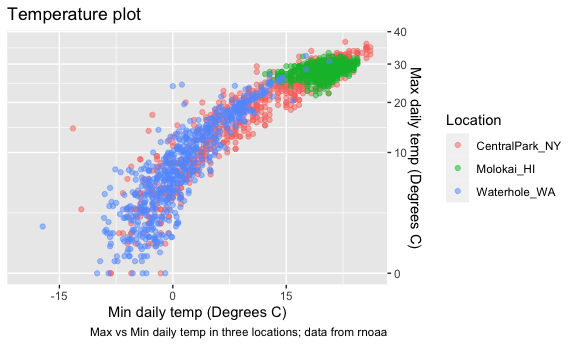
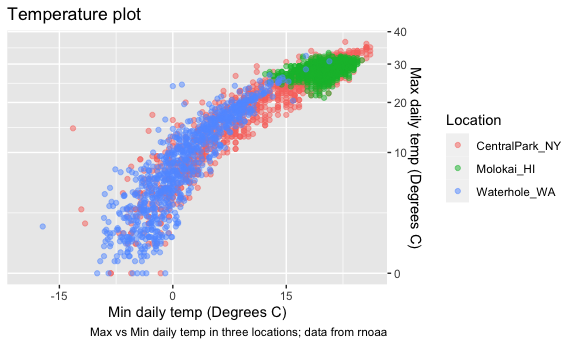
viz part2 finished

diff --git a/viz_part2.md b/viz_part2.md
@@ -19,11 +19,23 @@ library(tidyverse)
     ## ℹ Use the conflicted package (<http://conflicted.r-lib.org/>) to force all conflicts to become errors
 
 ``` r
+library(patchwork)
+
 knitr::opts_chunk$set(
   fig.width = 6,
   fig.asp = .6,
   out.width = "90%"
 )
+
+#theme_set(theme_minimal() + theme(legend.position = "bottom"))
+
+#options(
+#  ggplot2.continuous.colour = "viridis",
+#  ggplot2.continuous.fill = "viridis"
+#)
+
+#scale_colour_discrete = scale_colour_viridis_d
+#scale_fill_discrete = scale_fill_viridis_d
 ```
 
 Get the data for plotting today.
@@ -34,7 +46,7 @@ weather_df =
     c("USW00094728", "USW00022534", "USS0023B17S"),
     var = c("PRCP", "TMIN", "TMAX"), 
     date_min = "2021-01-01",
-    date_max = "2022-12-31") |>
+    date_max = "2023-12-31") |>
   mutate(
     name = recode(
       id, 
@@ -63,6 +75,8 @@ weather_df =
     ## date created (size, mb): 2023-10-09 17:57:48.352621 (0.122)
 
     ## file min/max dates: 2021-01-01 / 2023-10-31
+
+This results in a dataframe with 3102 observations on six variables.
 
 ## Same plot from last time
 
@@ -95,7 +109,7 @@ weather_df |>
 
     ## Warning: Transformation introduced infinite values in continuous y-axis
 
-    ## Warning: Removed 142 rows containing missing values (`geom_point()`).
+    ## Warning: Removed 259 rows containing missing values (`geom_point()`).
 
 <img src="viz_part2_files/figure-gfm/unnamed-chunk-3-1.png" width="90%" />
 
@@ -118,8 +132,207 @@ weather_df |>
   viridis::scale_color_viridis(discrete = TRUE)
 ```
 
-    ## Warning: Removed 17 rows containing missing values (`geom_point()`).
+    ## Warning: Removed 93 rows containing missing values (`geom_point()`).
 
-<img src="viz_part2_files/figure-gfm/scale_color_hue-1.png" width="90%" />
+<img src="viz_part2_files/figure-gfm/scale_color_hue; viridis-1.png" width="90%" />
 
 ## Themes
+
+``` r
+weather_df |>
+  ggplot(aes(x = tmin, y = tmax, color = name))+
+  geom_point(alpha= .5) +
+  labs(
+    title = "Temperature plot",
+    x = "Min daily temp (Degrees C)",
+    y = "Max daily temp (Degrees C)",
+    color = "Location",
+    caption = "Max vs Min daily temp in three locations; data from rnoaa"
+  ) +
+  viridis::scale_color_viridis(discrete = TRUE) +
+  theme_minimal() + # bw & without box lines
+  #theme_classic() + # no grid line (recommend with grid line)
+  #theme_bw() +
+  theme(legend.position = "bottom") # legend bottom should be lower than bw (bw will reset)
+```
+
+    ## Warning: Removed 93 rows containing missing values (`geom_point()`).
+
+<img src="viz_part2_files/figure-gfm/unnamed-chunk-4-1.png" width="90%" />
+
+## data arguments …
+
+``` r
+weather_df |>
+  ggplot(aes(x = date, y = tmax, color = name)) +
+  geom_point() +
+  geom_smooth()
+```
+
+    ## `geom_smooth()` using method = 'gam' and formula = 'y ~ s(x, bs = "cs")'
+
+    ## Warning: Removed 93 rows containing non-finite values (`stat_smooth()`).
+
+    ## Warning: Removed 93 rows containing missing values (`geom_point()`).
+
+<img src="viz_part2_files/figure-gfm/unnamed-chunk-5-1.png" width="90%" />
+
+``` r
+nyc_weather_df = 
+  weather_df |>
+  filter(name == "CentralPark_NY")
+
+hawaii_weather_df = 
+  weather_df |>
+  filter(name == "Molokai_HI")
+
+ggplot(nyc_weather_df, aes(x = date, y = tmax, color = name)) +
+  geom_point() +
+  geom_line(data = hawaii_weather_df)
+```
+
+    ## Warning: Removed 25 rows containing missing values (`geom_point()`).
+
+    ## Warning: Removed 25 rows containing missing values (`geom_line()`).
+
+<img src="viz_part2_files/figure-gfm/unnamed-chunk-5-2.png" width="90%" />
+
+## `patchwork`
+
+``` r
+weather_df |>
+  ggplot(aes(x = date, y = tmax, color = name)) +
+  geom_point() +
+  facet_grid(. ~ name)
+```
+
+    ## Warning: Removed 93 rows containing missing values (`geom_point()`).
+
+<img src="viz_part2_files/figure-gfm/unnamed-chunk-6-1.png" width="90%" />
+
+``` r
+ggp_temp_scatter =
+  weather_df |>
+  ggplot(aes(x = tmin, y = tmax, color = name)) +
+  geom_point(alpha = .5) +
+  theme(legend.position = "none")
+
+ggp_prcp_density = 
+  weather_df |>
+  filter(prcp > 25) |>
+  ggplot(aes(x = prcp, fill = name)) +
+  geom_density(alpha = .5) +
+  theme(legend.position = "none")
+
+ggp_tmax_date = 
+  weather_df |>
+  ggplot(aes(x = date, y = tmax, color = name)) +
+  geom_point() +
+  geom_smooth(se = FALSE) +
+  theme(legend.position = "bottom")
+
+(ggp_temp_scatter + ggp_prcp_density) / ggp_tmax_date
+```
+
+    ## Warning: Removed 93 rows containing missing values (`geom_point()`).
+
+    ## `geom_smooth()` using method = 'gam' and formula = 'y ~ s(x, bs = "cs")'
+
+    ## Warning: Removed 93 rows containing non-finite values (`stat_smooth()`).
+    ## Removed 93 rows containing missing values (`geom_point()`).
+
+<img src="viz_part2_files/figure-gfm/unnamed-chunk-7-1.png" width="90%" />
+
+## data manipulation
+
+``` r
+weather_df |>
+  mutate(
+    name = fct_relevel(name, c("Molokai_HI","CentralPark_NY","Waterhole_WA"))
+  ) |>
+  ggplot(aes(x = name, y = tmax)) +
+  geom_boxplot()
+```
+
+    ## Warning: Removed 93 rows containing non-finite values (`stat_boxplot()`).
+
+<img src="viz_part2_files/figure-gfm/unnamed-chunk-8-1.png" width="90%" />
+
+``` r
+weather_df |>
+  mutate(
+    name = fct_reorder(name, tmax)
+  ) |>
+  ggplot(aes(x = name, y = tmax, fill = name)) +
+  geom_violin()
+```
+
+    ## Warning: There was 1 warning in `mutate()`.
+    ## ℹ In argument: `name = fct_reorder(name, tmax)`.
+    ## Caused by warning:
+    ## ! `fct_reorder()` removing 93 missing values.
+    ## ℹ Use `.na_rm = TRUE` to silence this message.
+    ## ℹ Use `.na_rm = FALSE` to preserve NAs.
+
+    ## Warning: Removed 93 rows containing non-finite values (`stat_ydensity()`).
+
+<img src="viz_part2_files/figure-gfm/unnamed-chunk-8-2.png" width="90%" />
+
+## complicate FAS plot
+
+``` r
+litter_data = 
+  read_csv("data/FAS_litters.csv") |>
+  janitor::clean_names() |>
+  separate(group, into = c("dose", "day_of_tx"), sep = 3)
+```
+
+    ## Rows: 49 Columns: 8
+    ## ── Column specification ────────────────────────────────────────────────────────
+    ## Delimiter: ","
+    ## chr (2): Group, Litter Number
+    ## dbl (6): GD0 weight, GD18 weight, GD of Birth, Pups born alive, Pups dead @ ...
+    ## 
+    ## ℹ Use `spec()` to retrieve the full column specification for this data.
+    ## ℹ Specify the column types or set `show_col_types = FALSE` to quiet this message.
+
+``` r
+pup_data = 
+  read_csv("data/FAS_pups.csv") |>
+  janitor::clean_names() #|>
+```
+
+    ## Rows: 313 Columns: 6
+    ## ── Column specification ────────────────────────────────────────────────────────
+    ## Delimiter: ","
+    ## chr (1): Litter Number
+    ## dbl (5): Sex, PD ears, PD eyes, PD pivot, PD walk
+    ## 
+    ## ℹ Use `spec()` to retrieve the full column specification for this data.
+    ## ℹ Specify the column types or set `show_col_types = FALSE` to quiet this message.
+
+``` r
+  #mutate(
+  #  sex = 
+  #    case_match(
+  #      sex, 
+  #      1 ~ "male", 
+  #      2 ~ "female"))
+
+fas_data = 
+  left_join(pup_data, litter_data, by = "litter_number") 
+
+fas_data |> 
+  select(dose, day_of_tx, starts_with("pd")) |> 
+  pivot_longer(
+    pd_ears:pd_walk,
+    names_to = "outcome", 
+    values_to = "pn_day") |> 
+  drop_na() |> 
+  mutate(outcome = fct_reorder(outcome, pn_day)) |> 
+  ggplot(aes(x = dose, y = pn_day)) + 
+  geom_violin() + 
+  facet_grid(day_of_tx ~ outcome)
+```
+
+<img src="viz_part2_files/figure-gfm/unnamed-chunk-9-1.png" width="90%" />

diff --git a/viz_part1.md b/viz_part1.md
@@ -144,7 +144,7 @@ ggplot(weather_df, aes(x= tmin, y = tmax)) +
 
 ### facets
 
-Plot with facets
+Plot with facets (chaifen
 
 ``` r
 ggplot(weather_df, aes(x= tmin, y = tmax, color = name)) +
